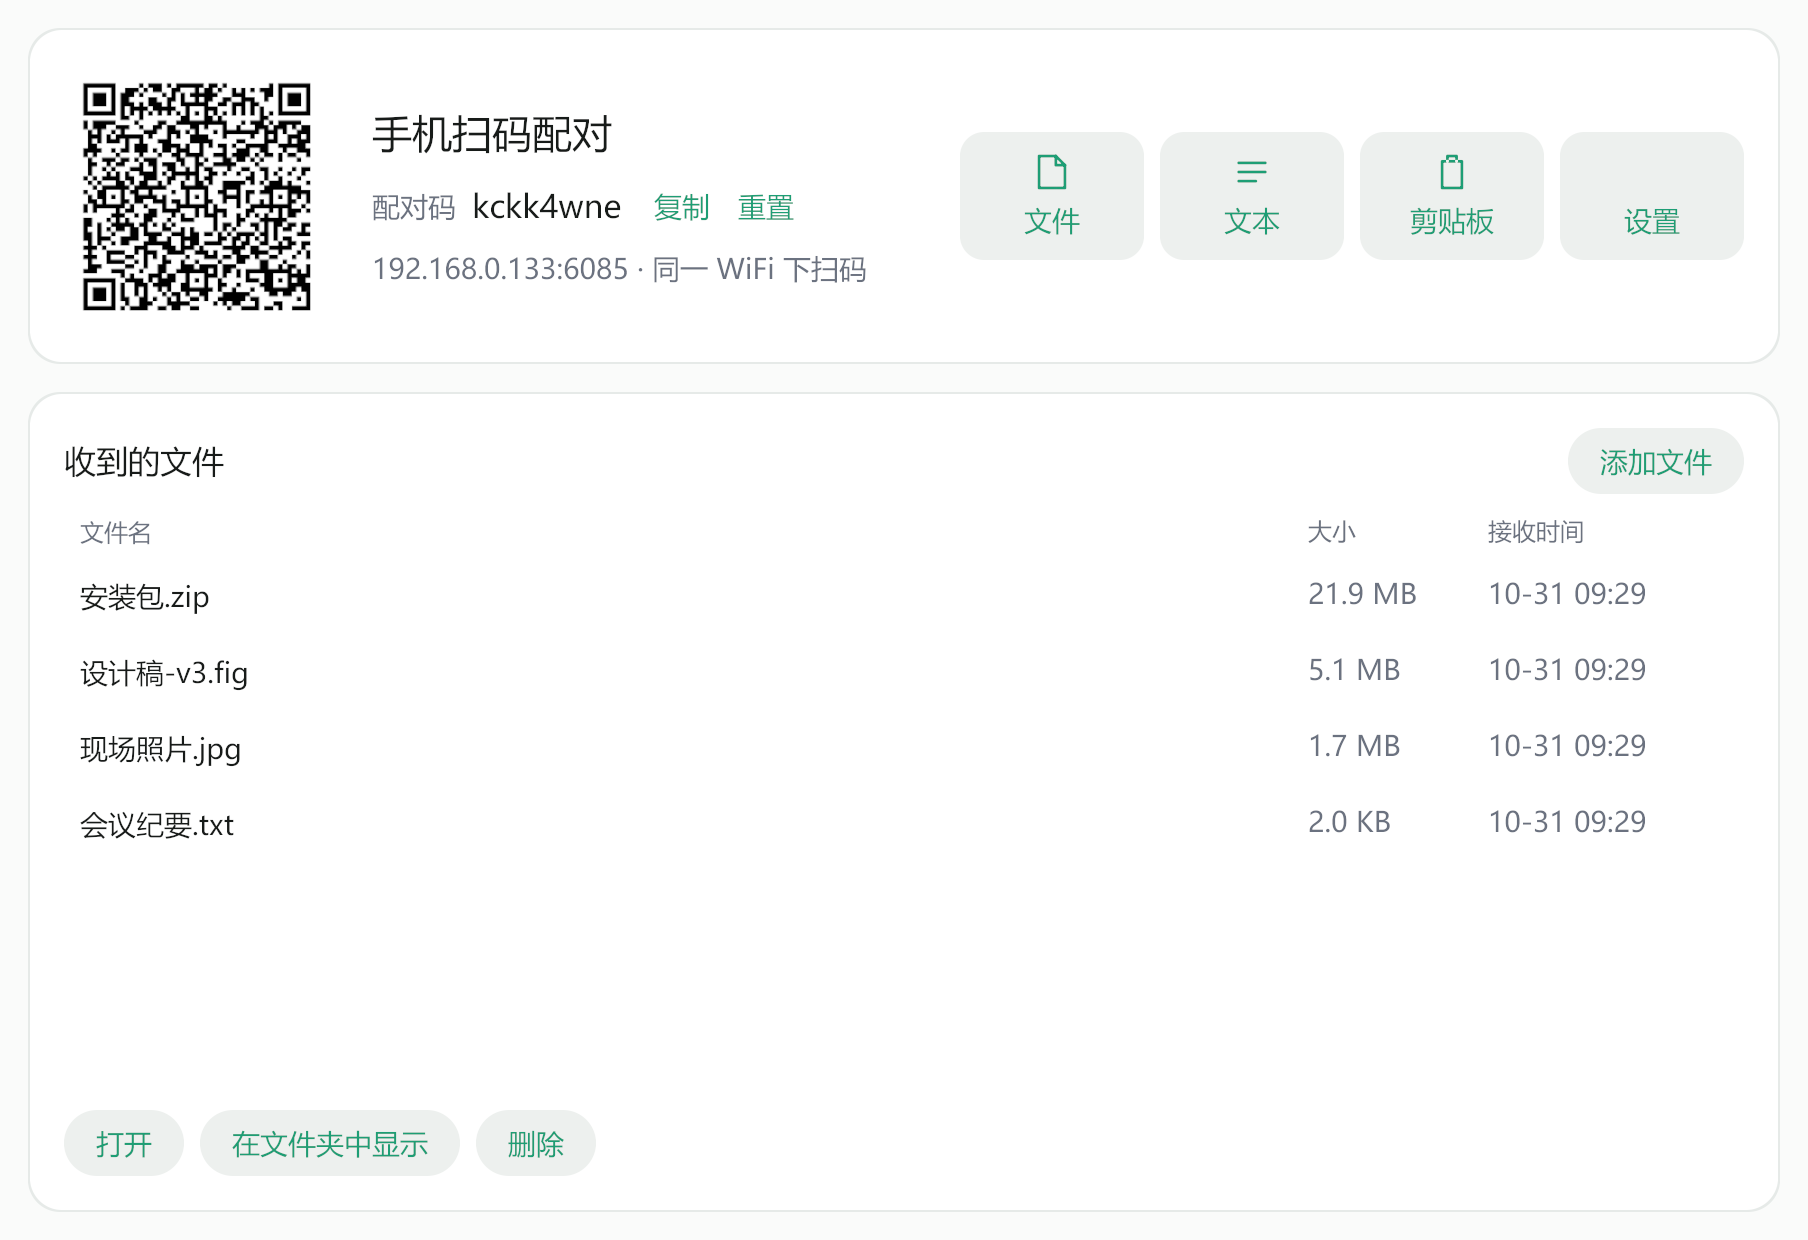
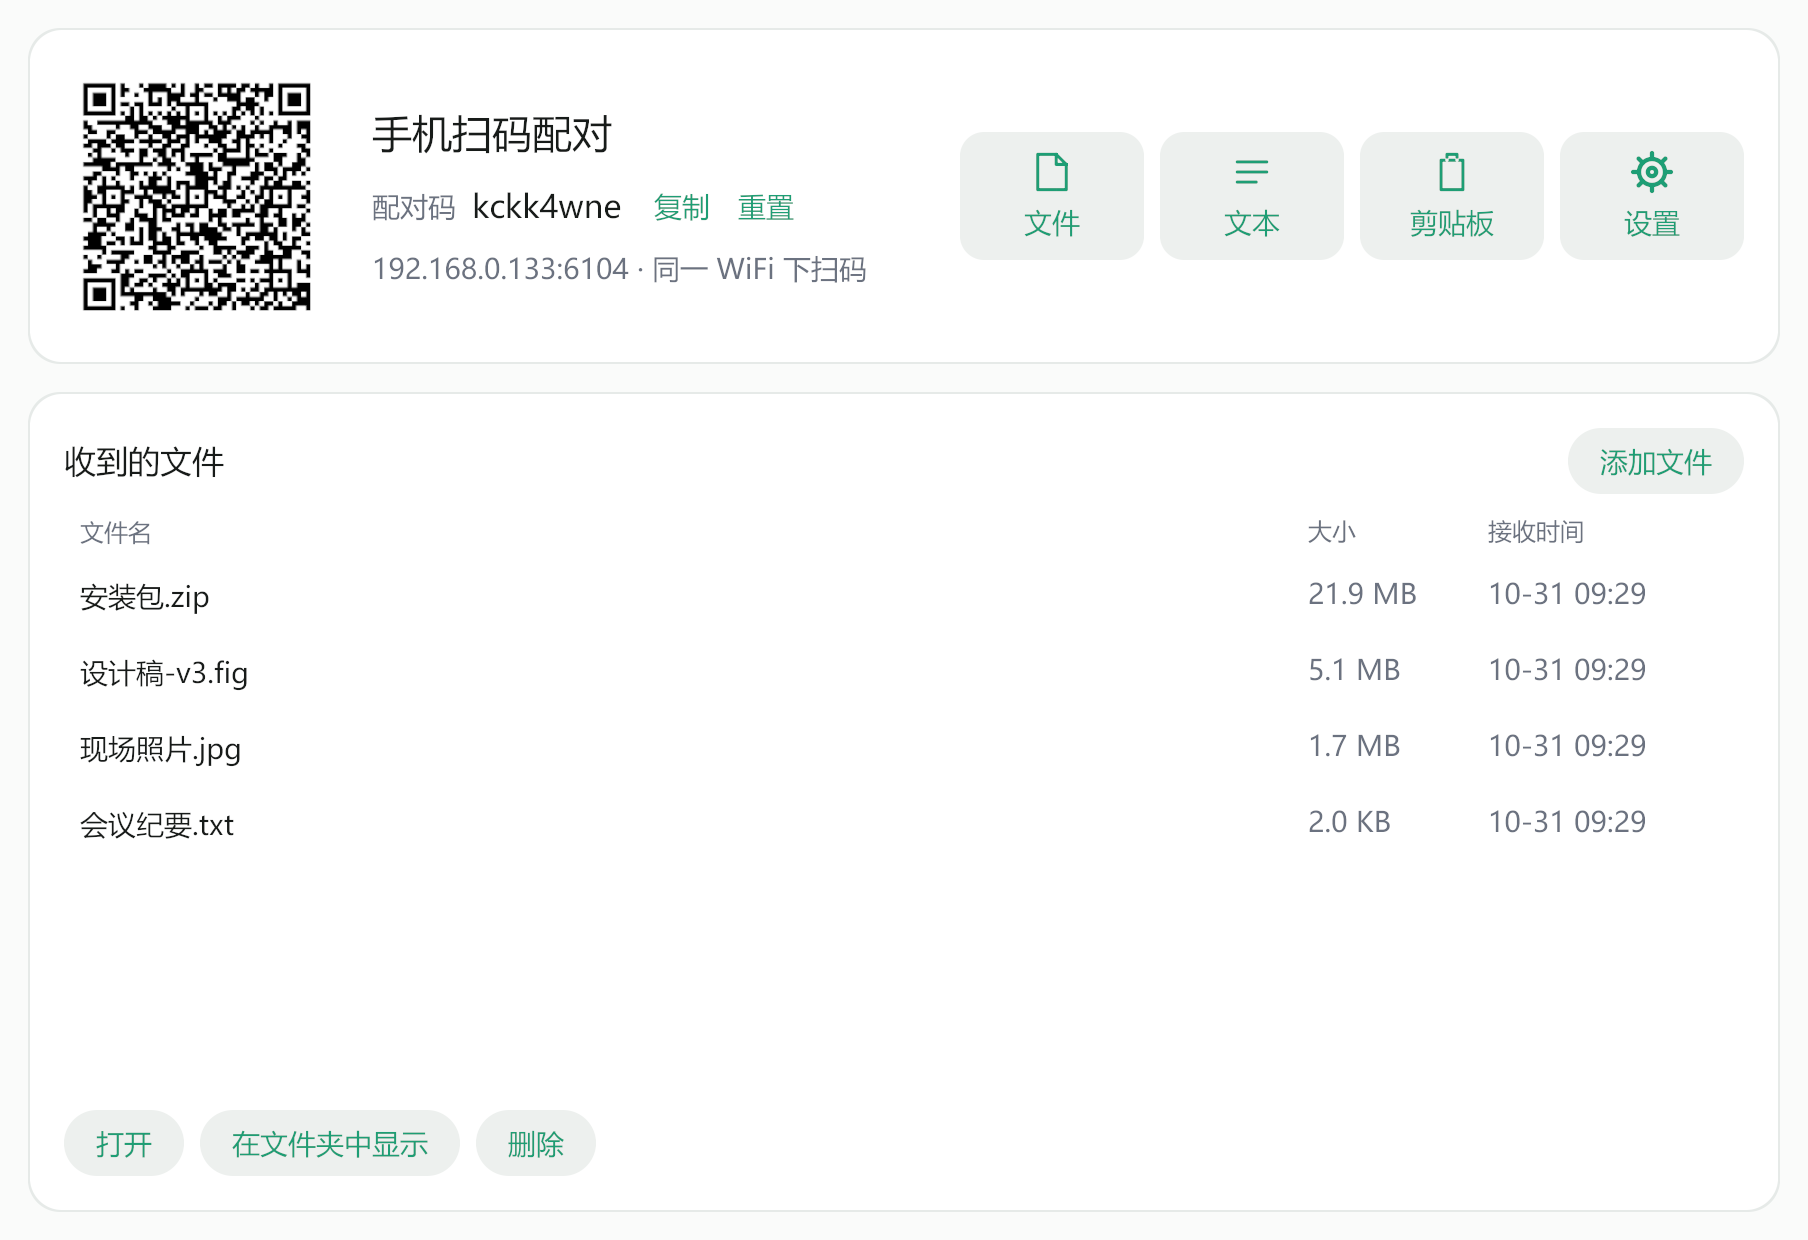
style(ui): 设置按钮补齿轮图标
和另外三个入口统一成描边风格，21dp 下也能认出来。

调了几轮才定下来：
- 一开始用 8 齿描边，19dp 下糊成放射线
- 换实心填充，齿太尖像朵花
- 最后：外圈做大 + 8 个短齿（只探出一小截）+ 中心孔，
  整体是「带凸起的圆环」，小尺寸下不会散

图标尺寸从 19dp 提到 21dp，四个入口统一。

另外：尝试给窗口加文件拖放，子类化窗口过程能挂上
（WS_EX_ACCEPTFILES 已生效），但 Go 的窗口回调转发给
Gio 的 Go 回调时会嵌套调用 Go callback，进程直接崩。
纯 Go 下这条路走不通，已回滚，拖放继续用「添加文件」按钮。

diff --git a/server/ui.go b/server/ui.go
@@ -6,6 +6,7 @@ import (
 	"image"
 	"image/color"
 	"image/png"
+	"math"
 	"os"
 	"os/exec"
 	"path/filepath"
@@ -528,7 +529,7 @@ func (u *ui) tile(c *widget.Clickable, label string) layout.Widget {
 			return layout.Center.Layout(gtx, func(gtx layout.Context) layout.Dimensions {
 				return layout.Flex{Axis: layout.Vertical, Alignment: layout.Middle}.Layout(gtx,
 					layout.Rigid(func(gtx layout.Context) layout.Dimensions {
-						side := gtx.Dp(unit.Dp(19))
+						side := gtx.Dp(unit.Dp(21))
 						gtx.Constraints = layout.Exact(image.Pt(side, side))
 						return iconWidget(gtx, label, side, uiGreen)
 					}),
@@ -573,6 +574,30 @@ func iconWidget(gtx layout.Context, kind string, size int, c color.NRGBA) layout
 		p.LineTo(at(0.85, 0.50))
 		p.MoveTo(at(0.15, 0.74))
 		p.LineTo(at(0.60, 0.74))
+	case "设置":
+		// 齿轮走描边，和另外三个图标保持一致。
+		// 关键是线要够粗：19-21dp 下细线会被抗锯齿糊掉。
+		cx, cy := 0.5*f, 0.5*f
+		deg := math.Pi / 180
+
+		// 外圈做大，齿只探出一小截 —— 这样整体是"带凸起的圆"，
+		// 而不是放射状的星形，小尺寸下才不会糊。
+		addCircle(&p, cx, cy, 0.31*f, 28)
+		for i := 0; i < 8; i++ {
+			a := float64(i)*45*deg - math.Pi/2
+			cos, sin := float32(math.Cos(a)), float32(math.Sin(a))
+			p.MoveTo(f32.Pt(cx+0.315*f*cos, cy+0.315*f*sin))
+			p.LineTo(f32.Pt(cx+0.45*f*cos, cy+0.45*f*sin))
+		}
+		// 中心孔
+		addCircle(&p, cx, cy, 0.10*f, 16)
+
+		paint.FillShape(gtx.Ops, c, clip.Stroke{
+			Path:  p.End(),
+			Width: float32(size) * 0.105,
+		}.Op())
+		return layout.Dimensions{Size: image.Pt(size, size)}
+
 	case "剪贴板":
 		// 板身 + 顶部夹子
 		p.MoveTo(at(0.24, 0.22))
@@ -592,6 +617,21 @@ func iconWidget(gtx layout.Context, kind string, size int, c color.NRGBA) layout
 	}.Op())
 
 	return layout.Dimensions{Size: image.Pt(size, size)}
+}
+
+// addCircle 用折线近似一个圆。
+// clip.Path 没有画圆的接口，段数够多时肉眼分不出来。
+func addCircle(p *clip.Path, cx, cy, r float32, seg int) {
+	for i := 0; i <= seg; i++ {
+		a := 2 * math.Pi * float64(i) / float64(seg)
+		x := cx + r*float32(math.Cos(a))
+		y := cy + r*float32(math.Sin(a))
+		if i == 0 {
+			p.MoveTo(f32.Pt(x, y))
+		} else {
+			p.LineTo(f32.Pt(x, y))
+		}
+	}
 }
 
 // linkButton 是配对码旁边那种小文字按钮。
